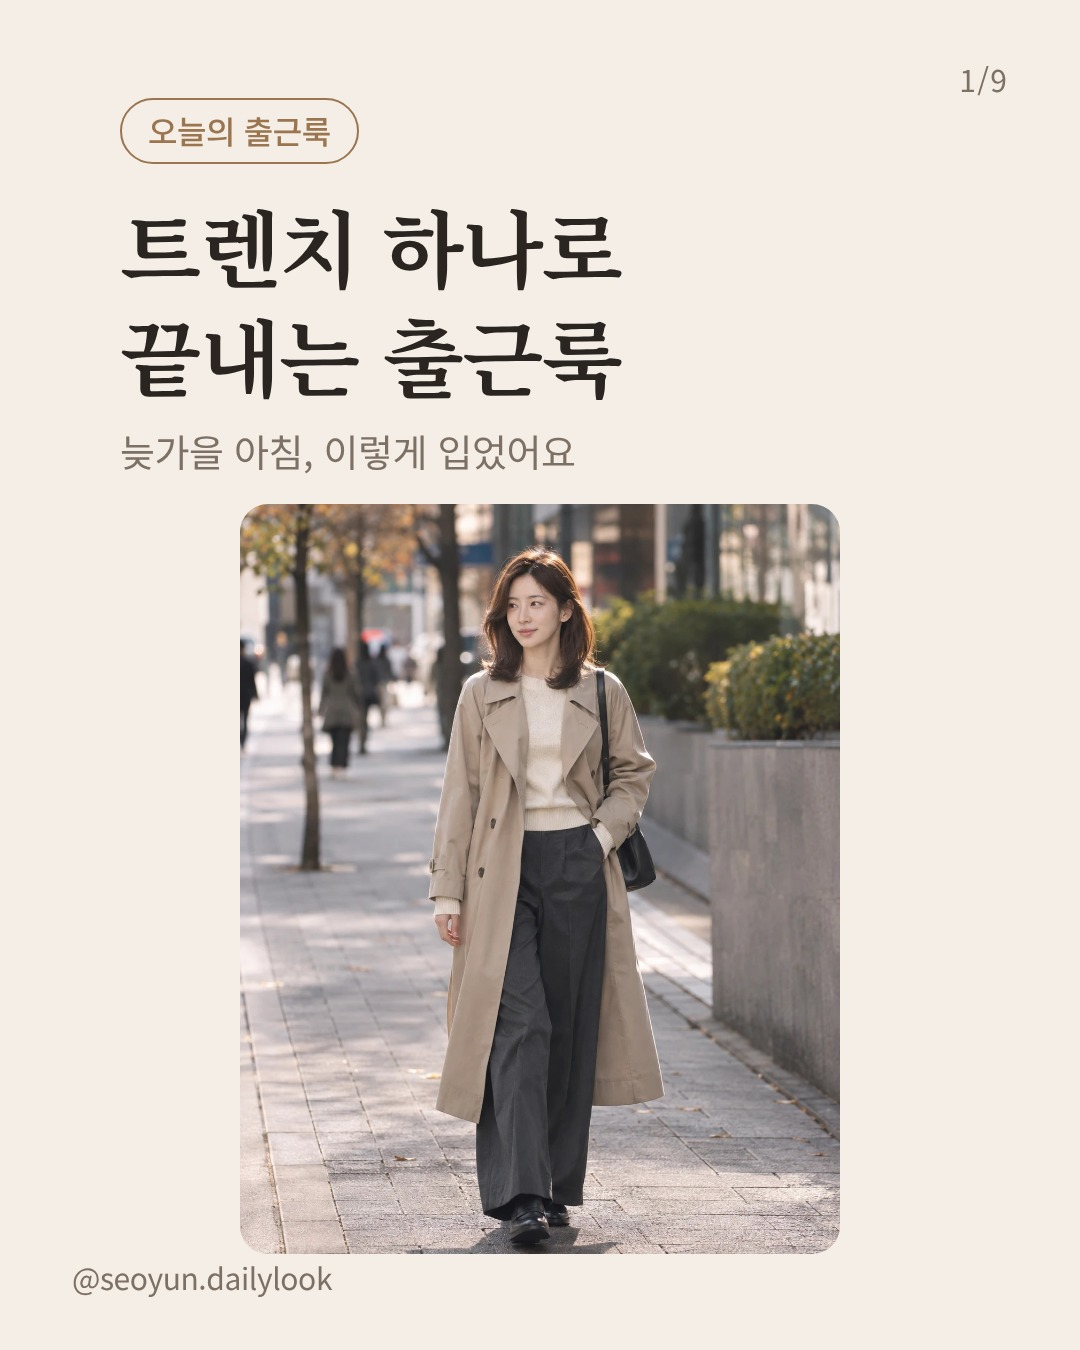
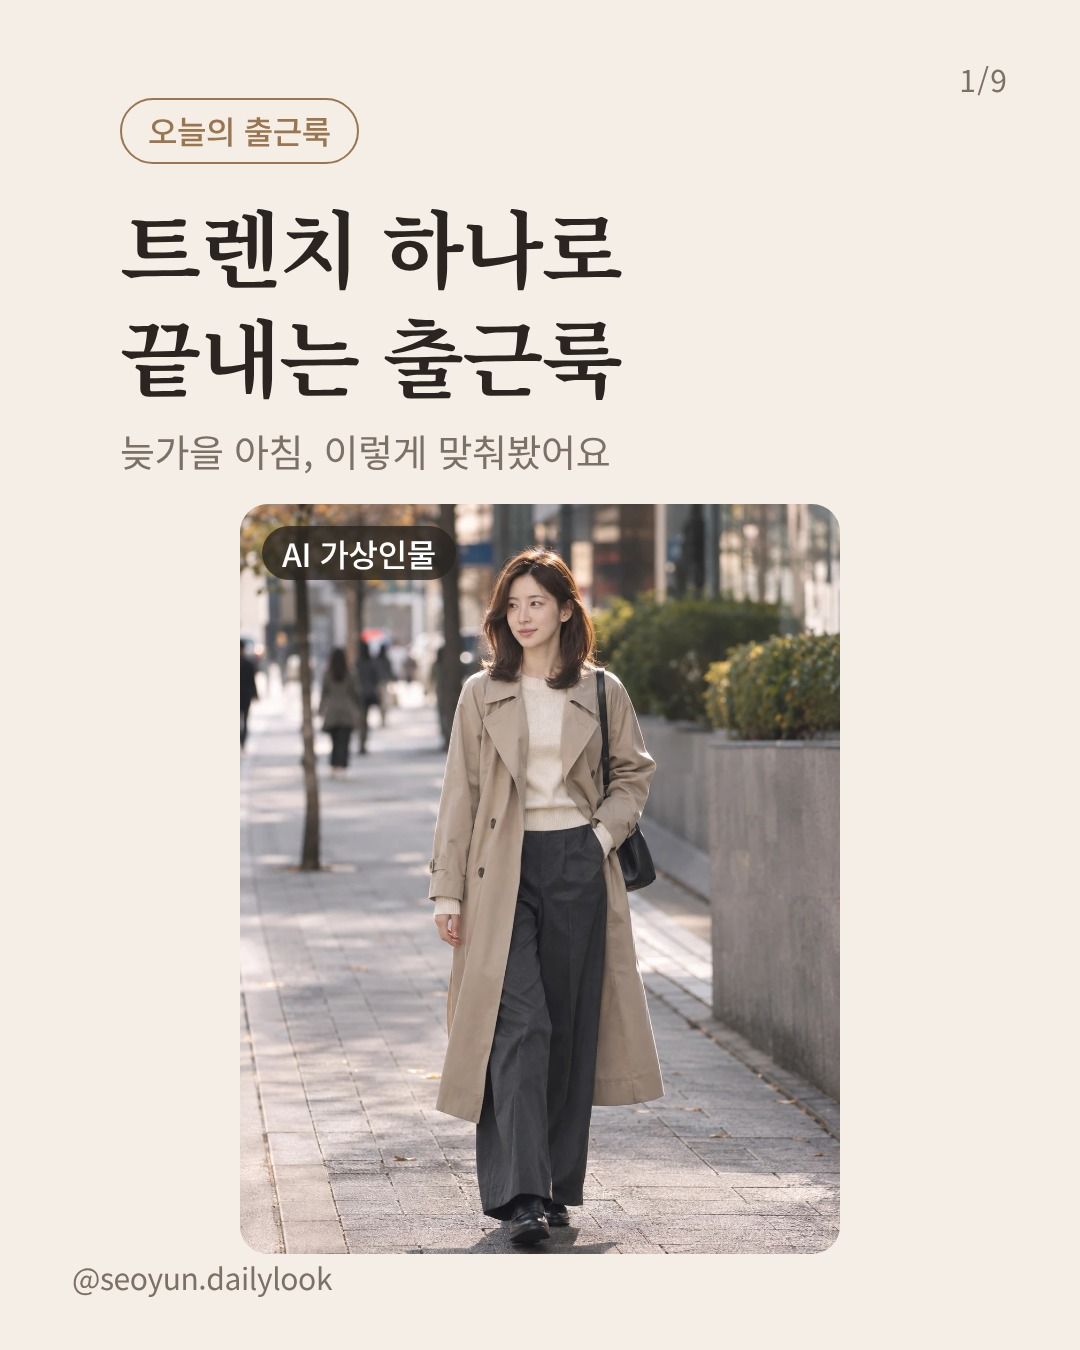
Add virtual-human labels and fix ad disclosure wording
Every photo of Seoyun now carries an "AI 가상인물" badge, per the
FTC endorsement guideline effective 2026-06-01. Disclosure wording is
stated plainly instead of conditionally, the trench post leads with
[광고] and #광고, and experiential phrasing is removed. Project rules
and voice.md record these requirements and the affiliate programs.

Claude-Session: https://claude.ai/code/session_01L7pY33bEBFCiPdJQZvrn9t

Changed region(s): [[0.2444, 0.3733, 0.4278, 0.4356], [0.3972, 0.3111, 0.55, 0.3422]]

diff --git a/tools/carousel.py b/tools/carousel.py
@@ -10,6 +10,8 @@ from PIL import Image
 
 ROOT = os.path.dirname(os.path.dirname(os.path.abspath(__file__)))
 HANDLE = "@seoyun.dailylook"
+# 공정위 추천·보증 심사지침(2026-06-01 시행): 가상인물이 나오는 동안 인물 가까이에 표시
+BADGE = '<span class="badge">AI 가상인물</span>'
 
 CSS = """
 @import url('https://fonts.googleapis.com/css2?family=Noto+Sans+KR:wght@400;500;700&family=Noto+Serif+KR:wght@600;700&display=block');
@@ -29,7 +31,10 @@ body{background:#ccc}
 .cover .top{position:absolute;top:96px;left:120px;right:120px}
 .cover h1{font-size:84px;margin-top:26px}
 .cover .sub{font-size:38px;color:var(--muted);margin-top:14px}
-.cover .photo{position:absolute;left:50%;transform:translateX(-50%);bottom:96px;width:600px;height:750px;object-fit:cover;border-radius:28px}
+.pw{position:absolute;left:50%;transform:translateX(-50%)}
+.pw img{width:100%;height:100%;object-fit:cover;border-radius:28px;display:block}
+.badge{position:absolute;top:22px;left:22px;background:rgba(42,37,33,.80);color:#fff;font-size:32px;font-weight:500;line-height:1.2;padding:8px 20px;border-radius:999px}
+.cover .pw{bottom:96px;width:600px;height:750px}
 /* text slide */
 .text .wrap{position:absolute;top:150px;bottom:170px;left:120px;right:120px;display:flex;flex-direction:column;justify-content:center}
 .text p{font-size:44px}
@@ -41,8 +46,8 @@ ul.list li{padding:26px 0;border-top:2px solid var(--line);display:flex;gap:28px
 ul.list li:last-child{border-bottom:2px solid var(--line)}
 ul.list .k{color:var(--accent);font-weight:700;min-width:56px}
 /* photo + text slide */
-.item .photo{position:absolute;top:130px;left:50%;transform:translateX(-50%);width:720px;height:720px;object-fit:cover;border-radius:28px}
-.item .photo.tall{width:420px;height:525px;top:120px}
+.item .pw{top:130px;width:720px;height:720px}
+.item .pw.tall{width:420px;height:525px;top:120px}
 .item .wrap{position:absolute;top:900px;left:120px;right:120px}
 .item .wrap.lower{top:690px}
 .item h2{font-size:62px;margin:10px 0 18px}
@@ -82,7 +87,7 @@ def slide(s, i, n, build):
         img = crop(s["image"], s.get("crop"), os.path.join(build, f"img{i}.jpg"), 800)
         inner = (f'<div class="top"><span class="pill">{esc(s["pill"])}</span>'
                  f'<h1 class="serif">{esc(s["title"])}</h1><div class="sub">{esc(s["sub"])}</div></div>'
-                 f'<img class="photo" src="{img}">')
+                 f'<div class="pw"><img src="{img}">{BADGE}</div>')
     elif kind == "text":
         body = "".join(f"<p>{esc(p)}</p>" for p in s.get("paras", []))
         if s.get("list"):
@@ -101,7 +106,7 @@ def slide(s, i, n, build):
                 f'<li><span class="k">{esc(k)}</span><span>{esc(v)}</span></li>' for k, v in s["list"]) + "</ul>"
         if s.get("note"):
             body += f'<p class="note" style="margin-top:22px">{esc(s["note"])}</p>'
-        inner = (f'<img class="photo{" tall" if tall else ""}" src="{img}">'
+        inner = (f'<div class="pw{" tall" if tall else ""}"><img src="{img}">{BADGE}</div>'
                  f'<div class="wrap{" lower" if tall else ""}"><div class="label">{esc(s["label"])}</div>'
                  f'<h2 class="serif">{esc(s["title"])}</h2>{body}</div>')
     elif kind == "recap":

diff --git a/CLAUDE.md b/CLAUDE.md
@@ -35,8 +35,13 @@
 - **사용자가 미리보기를 보고 승인한 게시물만 올린다.**
 - API로 안 되는 것: 인스타그램 음악 라이브러리, 스토리 링크/투표 스티커. 이건 사용자가 앱에서 한다.
 
-## 항상 지킬 것
-1. 프로필, 캡션, 캐러셀 마지막 장에 AI 가상 모델임을 밝힌다.
-2. 제휴 링크와 협찬에는 광고 표시를 넣는다.
-3. 실제 착용 후기를 지어내지 않는다. 제품 정보는 판매 페이지의 사실만 쓴다.
-4. 몸매 강조, 노출 위주 이미지는 쓰지 않는다.
+## 항상 지킬 것 (공정위 추천·보증 심사지침, 2026-06-01 시행분 포함)
+1. **가상인물 표시:** 서윤이 나오는 모든 사진, 영상 프레임에 인물 가까이 `AI 가상인물` 표시를 넣는다 (`tools/carousel.py`가 사진마다 자동으로 붙인다). 캡션 첫 부분, 프로필에도 밝힌다.
+2. **광고 표시:** 제휴 링크나 협찬이 걸린 게시물은 캡션 첫 줄(더보기 전)에 `[광고]`와 수수료를 받는다는 사실을 쓰고, 첫 번째 해시태그를 `#광고`로 한다. DM으로 링크를 보낼 때도 첫 줄에 쓴다. 쿠팡 링크에는 쿠팡 지정 문구를 그대로 쓴다: `이 포스팅은 쿠팡 파트너스 활동의 일환으로, 이에 따른 일정액의 수수료를 제공받습니다.`
+3. **조건부 표현 금지:** "수수료를 받을 수 있어요"처럼 쓰지 않는다. "수수료를 받아요/받습니다"로 단정한다.
+4. **경험담 금지:** 가상인물이라도 직접 입어보거나 써 본 것처럼 쓰지 않는다 ("입어보니 편해요" 금지). 코디 제안과 판매 페이지의 사실만 쓴다.
+5. 몸매 강조, 노출 위주 이미지는 쓰지 않는다.
+
+## 제휴 프로그램
+- 쿠팡 파트너스(패션 약 3%), 지그재그 공유리워드(SNS만 있으면 가입, 브랜드 7~10%), 29CM 큐레이터(최대 10%), 무신사 큐레이터(최대 10%, 승인제. 2026-08 약관에 AI 이미지 관련 조항이 생겨 가상인물 계정 승인 여부 확인 필요). 에이블리는 공식 자료가 확인되지 않음.
+- 링크는 사용자가 각 프로그램에서 만든다. Claude는 비슷한 제품 후보(판매 페이지에서 가격, 색상 확인)를 찾아 정리한다.

diff --git a/voice.md b/voice.md
@@ -41,6 +41,7 @@ AI 가상 모델임을 숨기지 않는다.
 ## Off limits
 
 - **실제 착용 후기를 지어내지 않는다.** 서윤은 가상 인물이라 옷을 실제로 입어볼 수 없다. "입어보니 착용감이 좋아요", "세탁해도 안 늘어나요" 같은 사용 경험은 절대 쓰지 않는다. 제품 정보는 판매 페이지에 적힌 사실(소재, 가격, 사이즈 등)만 쓴다.
+- **가상인물 표시:** 서윤이 나오는 모든 이미지에 인물 가까이 `AI 가상인물`을 표시한다 (공정위 추천·보증 심사지침, 2026-06-01 시행).
 - **AI 이미지를 실제 제품 사진인 것처럼 쓰지 않는다.** AI 착용 이미지에는 항상 "AI 가상 착용 이미지이며 실제 제품과 다를 수 있어요"를 적는다. 링크는 "비슷한 제품"으로 소개한다.
 - **실제 사람인 척하지 않는다.** 팔로워가 물으면 AI 가상 모델이라고 답한다. DM으로 선물, 돈, 개인적 만남 관련 대화를 하지 않는다.
 - **몸매 강조, 노출, 선정적 포즈 금지.**
@@ -60,4 +61,4 @@ AI 가상 모델임을 숨기지 않는다.
 - **My keyword CTA:** 코디
 - **What the keyword sends them:** 그 게시물에 나온 아이템과 비슷한 제품 제휴 링크 목록 (광고 표시 포함)
 - **Where my link goes:** 프로필 링크 → 제휴 링크 모음 페이지 (링크트리 같은 서비스, 미정)
-- **광고 표시 (항상):** 제휴 링크가 있는 게시물과 DM에는 "이 게시물은 쿠팡 파트너스 활동의 일환으로, 이에 따른 일정액의 수수료를 제공받습니다" 또는 해당 제휴처의 문구를 넣는다. 협찬은 캡션 첫 줄 근처에 "광고" 또는 "유료광고 포함" 표시.
+- **광고 표시 (항상, 캡션 첫 줄 더보기 전 + 첫 해시태그 #광고, 조건부 표현 금지):** 제휴 링크가 있는 게시물과 DM에는 "이 게시물은 쿠팡 파트너스 활동의 일환으로, 이에 따른 일정액의 수수료를 제공받습니다" 또는 해당 제휴처의 문구를 넣는다. 협찬은 캡션 첫 줄 근처에 "광고" 또는 "유료광고 포함" 표시.
